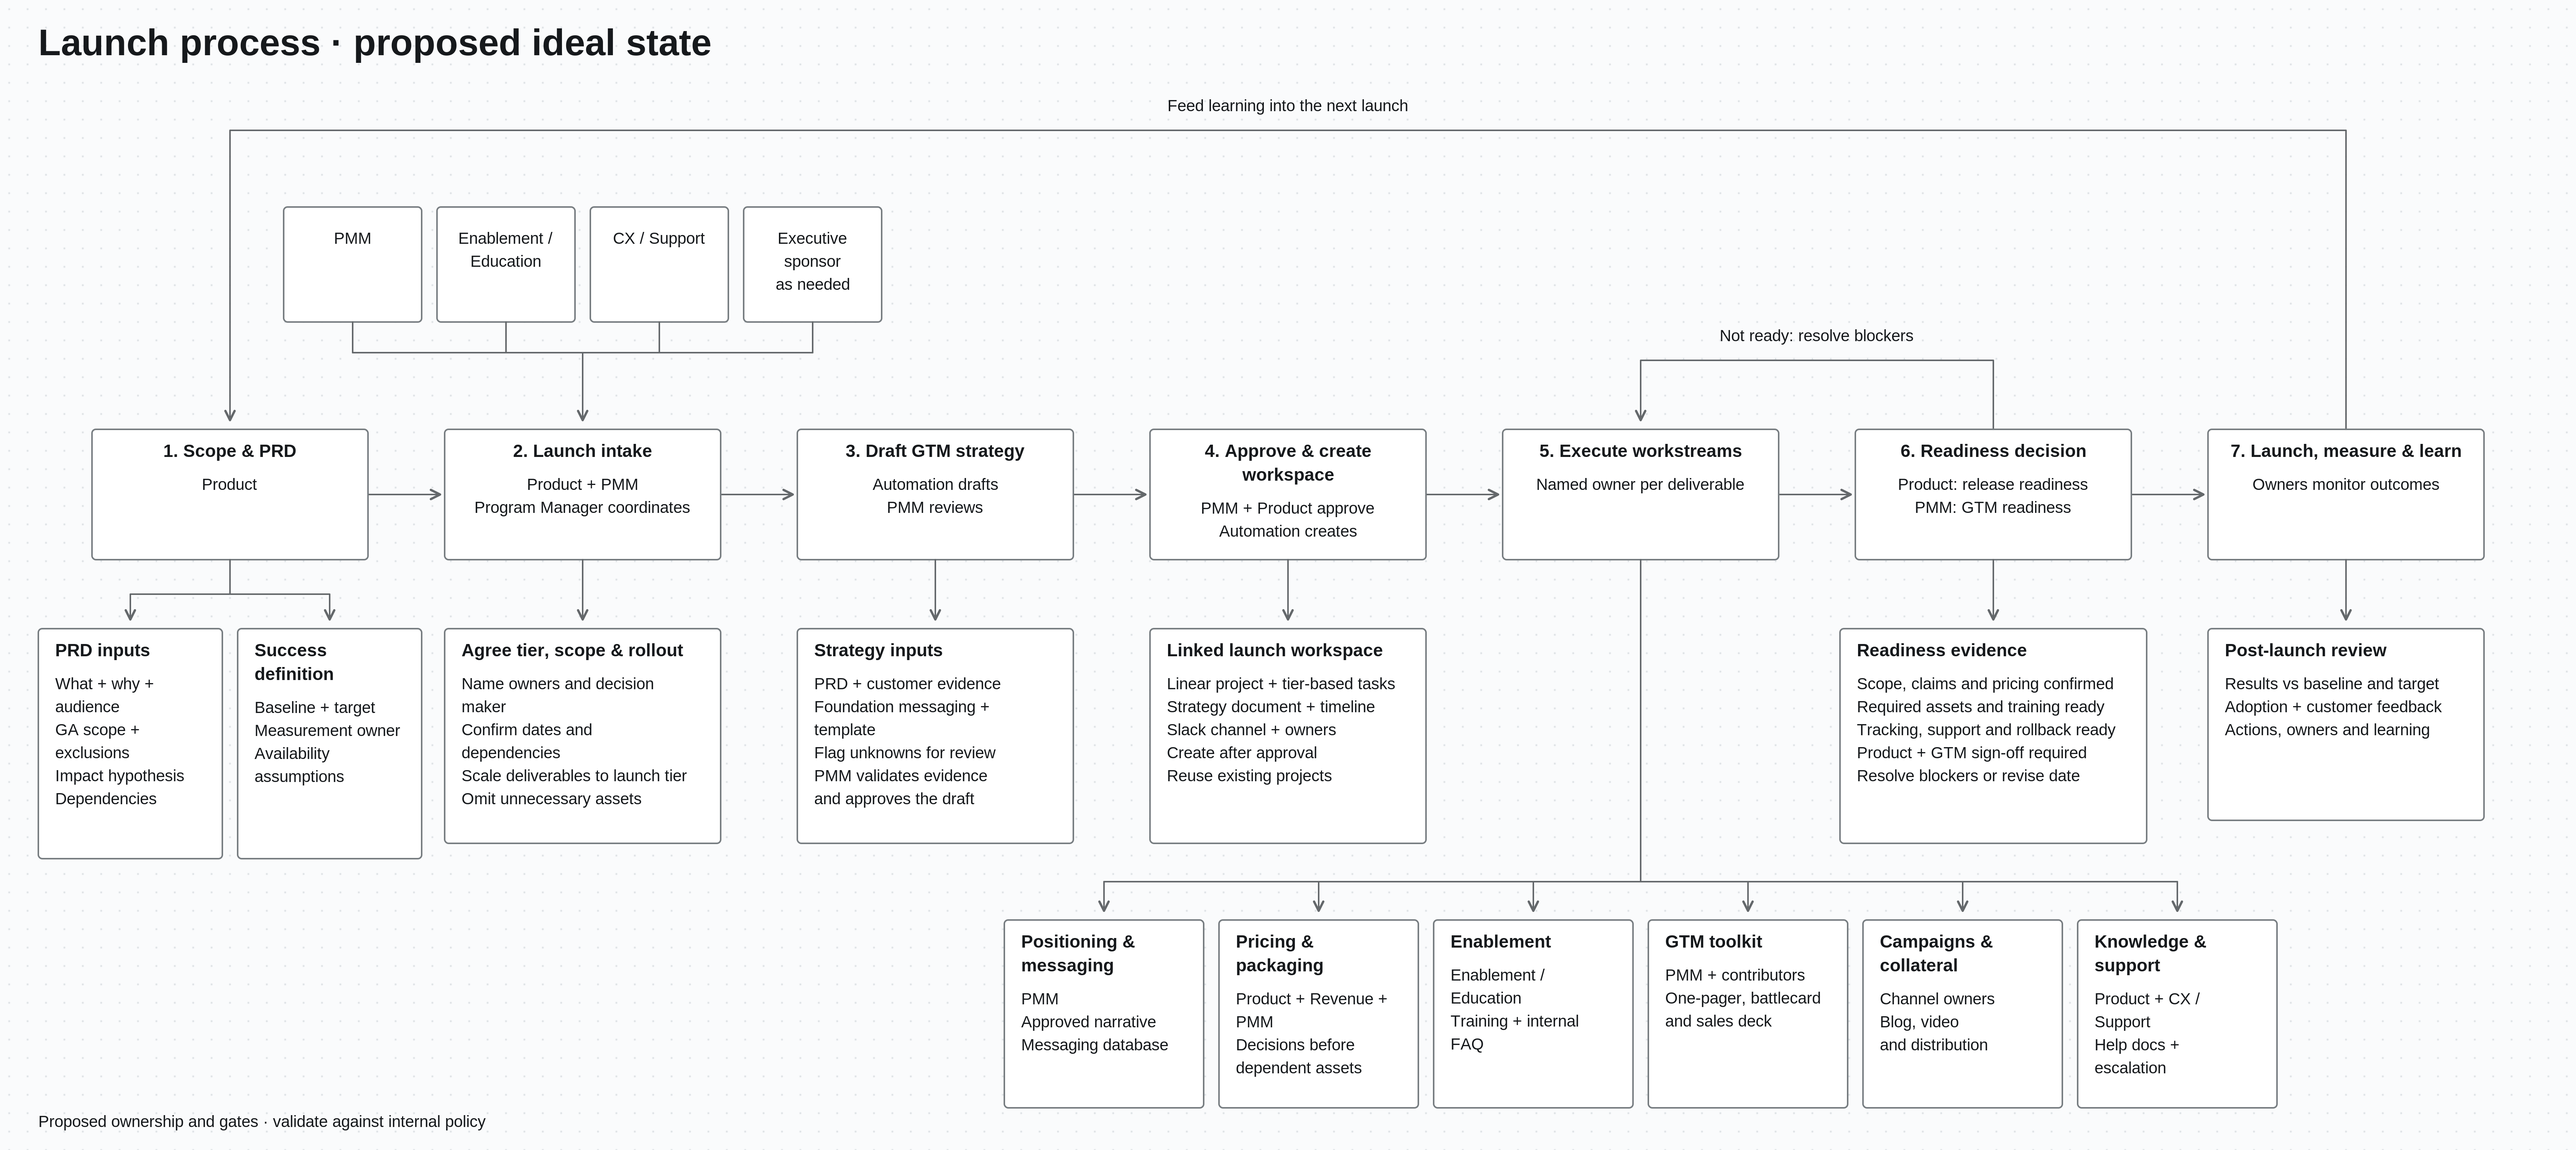
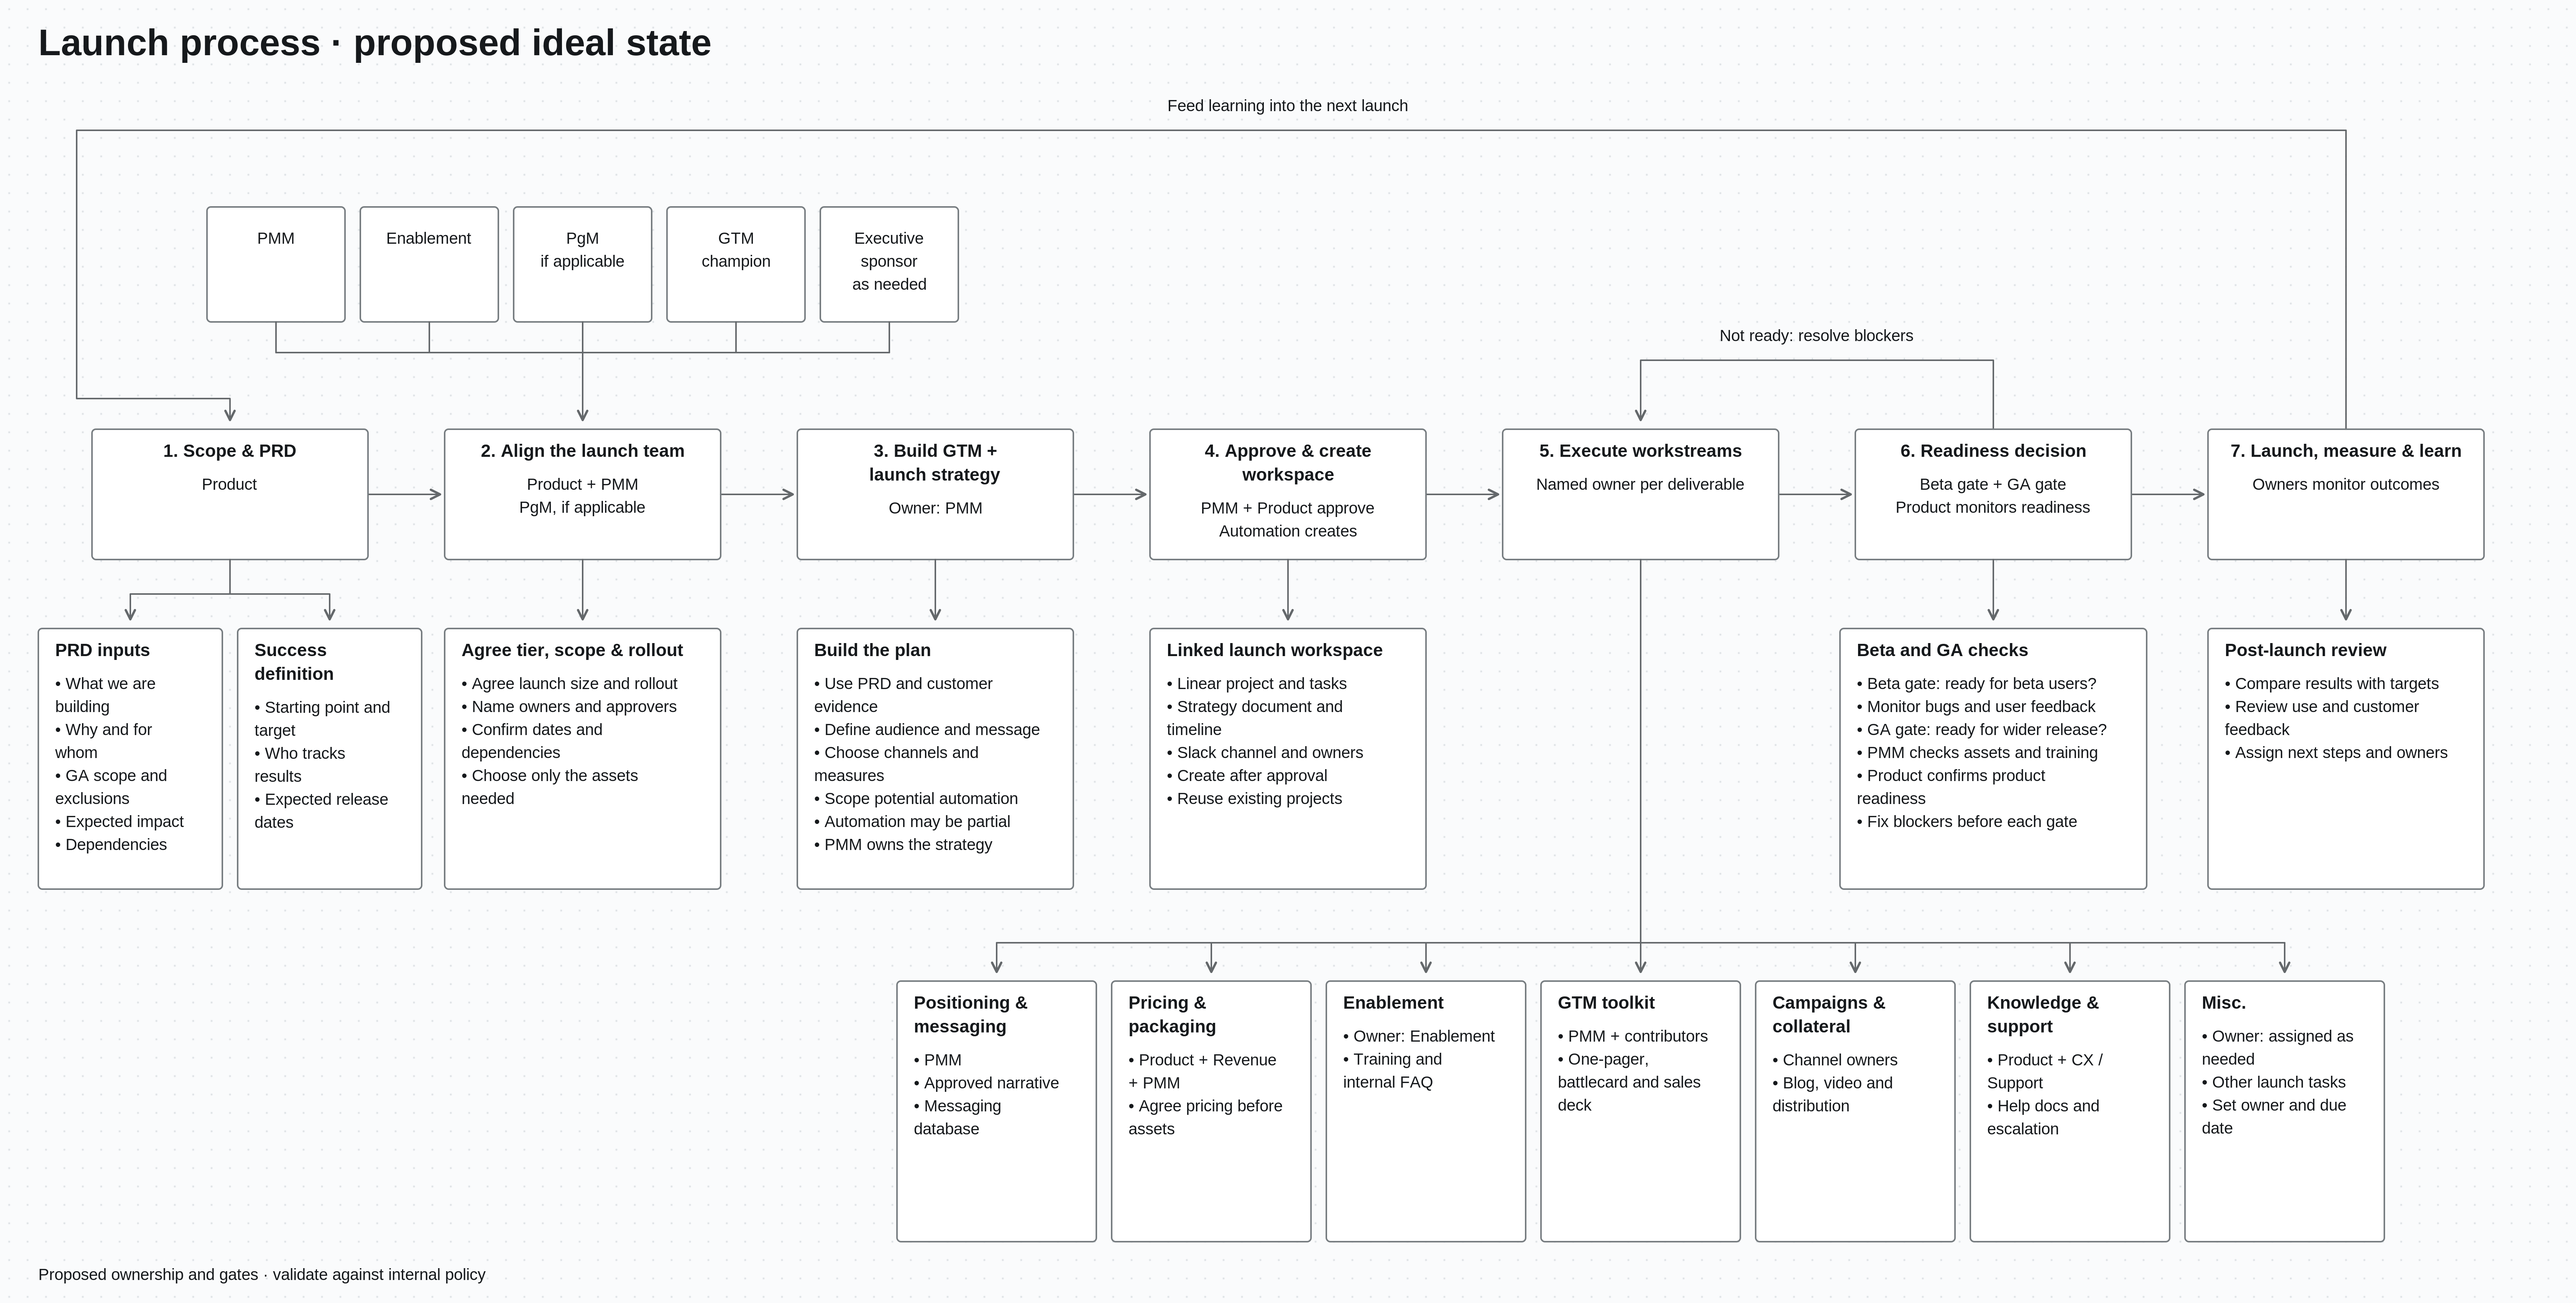
Simplify launch process and update owners and readiness gates

diff --git a/operations/launch-ideal-state.md b/operations/launch-ideal-state.md
@@ -1,48 +1,95 @@
 # Launch process: proposed ideal state
 
-Status: proposed process based on Matilda's launch-process diagram. Ownership and gates require validation against current internal policy.
-
 ![Launch process in a FigJam-style layout](launch-ideal-state.svg)
 
-[Scalable vector diagram (SVG)](launch-ideal-state.svg) · [High-resolution PNG, 6720 × 3000](launch-ideal-state.png)
+[Vector diagram (SVG)](launch-ideal-state.svg) · [HQ PNG, 6720 × 3400](launch-ideal-state.png)
 
-## Workflow
+## 1. Scope and PRD
 
-| Step | Owner | Required output |
-| --- | --- | --- |
-| 1. Scope and PRD | Product | What and why, target audience, GA scope and exclusions, impact hypothesis, dependencies and availability assumptions. Define a baseline, target and measurement owner. |
-| 2. Launch intake | Product + PMM; Program Manager coordinates | Agree launch tier, scope and rollout. Name deliverable owners and decision maker. Confirm dates and dependencies. Involve Enablement/Education, CX/Support and an executive sponsor where needed. |
-| 3. Draft GTM strategy | Automation drafts; PMM reviews | Combine PRD, customer evidence, foundation messaging and launch templates. Cover audience, positioning, goals, pricing assumptions, rollout, channels and measurement. Flag unknowns for review. |
-| 4. Approve and create workspace | PMM approves GTM strategy; Product validates product accuracy | After approval, automation creates or links the Linear project, tier-based tasks, strategy document, timeline and Slack channel. Include owners and dependencies; avoid duplicate projects. |
-| 5. Execute workstreams | Named owner per deliverable | Produce the tier-appropriate deliverables listed below. |
-| 6. Readiness decision | Product: release readiness; PMM: GTM readiness | Confirm scope, claims and pricing; required assets and training; tracking, support and rollback readiness. Resolve blockers or update scope/date before launch. |
-| 7. Launch, measure and learn | Assigned launch and measurement owners | Monitor outcomes, compare results with baseline and target, capture adoption and customer feedback, and assign follow-up actions. Feed learning into the next launch. |
+Owner: Product
 
-## Parallel workstreams
+- Explain what we are building, why, and for whom.
+- List what will and will not be ready for general availability (GA).
+- Describe the expected impact and any dependencies.
+- Set a starting point, target, and owner for tracking results.
+- Add expected release dates.
 
-| Workstream | Proposed owner | Deliverables |
-| --- | --- | --- |
-| Positioning and messaging | PMM | Positioning options, approved narrative and messaging database |
-| Pricing and packaging | Product + Revenue + PMM | Approved commercial decisions before dependent assets |
-| Enablement | Enablement/Education | Training and internal FAQ |
-| GTM toolkit | PMM + contributors | One-pager, battlecard and sales deck, according to launch tier |
-| Campaigns and collateral | Channel owners | Campaign plan, distribution, blog and video where relevant |
-| Knowledge and support | Product + CX/Support | Knowledge document, help documentation and escalation plan |
+## 2. Align the launch team
 
-Workstreams can overlap, but approve positioning before finalizing collateral and settle pricing before publishing commercial claims.
+Owners: Product and PMM
 
-## Automation boundaries
+- Include PMM, Enablement, and a GTM champion.
+- Include a program manager (PgM), if applicable.
+- Include an executive sponsor when needed.
+- Agree on launch size, scope, and rollout.
+- Name owners and approvers.
+- Confirm dates and dependencies.
+- Choose only the assets this launch needs.
 
-- Generate a strategy draft, not an approved strategy. The PRD does not settle positioning, pricing, channels or launch targets by itself.
-- Create the launch workspace after strategy approval. Link existing projects rather than creating duplicates.
-- Scale tasks and assets to launch tier. A quiet release does not need every deliverable.
-- Route changes to PRD scope, pricing or availability to affected owners for review of messaging, assets and dates.
-- External publishing remains a separate approval step.
+## 3. Build GTM + launch strategy
 
-## Critique and validation
+Owner: PMM
 
-The original diagram established useful PRD inputs and GTM workstreams. This revision adds the missing tier decision, measurable success criteria, early CX/Support involvement, explicit approval and readiness gates, a blocker-resolution loop and post-launch learning.
+- Use the PRD, customer evidence, and existing messaging.
+- Define the audience, message, goals, and pricing assumptions.
+- Choose channels, rollout steps, and ways to measure success.
+- Flag unanswered questions.
+- Scope which parts could potentially be automated.
+- Automation may be partial. PMM owns the strategy and checks any automated drafts.
 
-The proposal was reviewed for ownership, inputs, outputs, dependencies and failure paths. It has not been validated against live internal policy or tested through an actual launch. Confirm approval authority, rollout gates and timing before adopting it as company policy.
+## 4. Approve and create the launch workspace
 
-The diagram uses a precisely positioned SVG with Arial specified as the primary font and Helvetica/sans-serif fallbacks. It preserves the FigJam-style layout without sticky notes. The SVG stays sharp at any zoom; the PNG is a 6720 × 3000 export. Neither is a native FigJam board. This document is the editable process description.
+Owners: PMM and Product
+
+- PMM approves the GTM strategy. Product checks product details.
+- After approval, create or link the Linear project and tasks.
+- Link the strategy document, timeline, and Slack channel.
+- Add owners, due dates, and dependencies.
+- Reuse existing projects to avoid duplicates.
+- Automate setup where practical.
+
+## 5. Execute workstreams
+
+Give each deliverable a named owner. Scale the work to the launch size.
+
+- **Positioning and messaging — PMM:** approved story and messaging database.
+- **Pricing and packaging — Product, Revenue, and PMM:** agree pricing before creating assets that use it.
+- **Enablement — Enablement:** training and internal FAQ.
+- **GTM toolkit — PMM and contributors:** one-pager, battlecard, and sales deck, as needed.
+- **Campaigns and collateral — channel owners:** campaigns, blog, video, and distribution, as needed.
+- **Knowledge and support — Product and CX/Support:** help documents and an escalation plan.
+- **Misc. — owner assigned as needed:** other launch tasks, each with an owner and due date.
+
+Approve the message before finalizing assets. Confirm pricing before publishing commercial claims.
+
+## 6. Readiness decision: Beta and GA gates
+
+Owners: Product for product readiness; PMM for GTM readiness
+
+- **Beta gate:** confirm the product is ready for the planned beta users.
+- Monitor bugs, product behavior, and user feedback during beta.
+- **GA gate:** confirm the product is ready for wider release.
+- Product monitors readiness and confirms whether the product can move through each gate.
+- PMM checks that the required assets, training, and launch communications are ready.
+- Confirm tracking, support coverage, and a rollback plan where needed.
+- Fix blockers or change the scope or date before moving forward.
+- Continue monitoring product health after release.
+
+## 7. Launch, measure, and learn
+
+Owners: assigned launch and measurement owners
+
+- Compare results with the starting point and targets.
+- Review adoption and customer feedback.
+- Assign next steps and owners.
+- Use what we learn to improve the next launch.
+
+## Design and validation
+
+- This is a proposed process based on Matilda's diagram and requested changes.
+- Confirm internal approval rules and Beta/GA criteria before adopting it as policy.
+- The SVG uses Arial, with Helvetica and sans-serif fallbacks.
+- Supporting cards use bullet points. Sticky-note guidance is included in the relevant steps.
+- Card groups use fixed positions and centered connectors.
+- The SVG stays sharp when zoomed. The PNG is exported at 6720 × 3400 pixels.
+- These files are not a native FigJam board.
